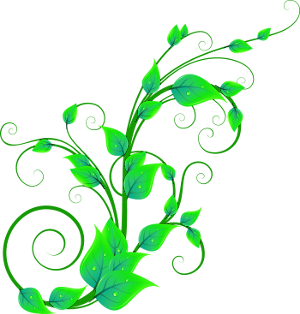
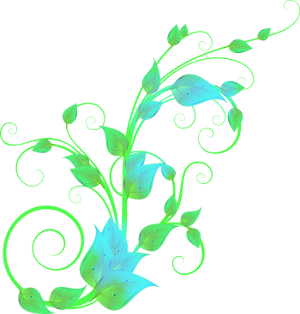
MDR対応

diff --git a/Tools/png2hsv/png2hsv.go b/Tools/png2hsv/png2hsv.go
@@ -85,16 +85,21 @@ func doBatch(files []string) {
 // ファイルをTSPにコンバートする
 func convert(in, out string) {
 
-	r, err := os.Open(in)
+	nrgbaImg, err := loadPNGToNRGBA(in)
 	check(err)
 
-	srcImg, err := png.Decode(r)
-	check(err)
-
-	nrgbaImg := image.NewNRGBA(srcImg.Bounds())
-	draw.Draw(nrgbaImg, srcImg.Bounds(), srcImg, image.Point{0, 0}, draw.Src)
+	ext2 := filepath.Ext(in)
+	filename := in[0:len(in)-len(ext2)] + "_Light" + ext2
+	lightImg, err := loadPNGToNRGBA(filename)
+	if lightImg == nil {
+		// Light画像がない場合は、黒を使う
+		size := nrgbaImg.Bounds().Size()
+		lightImg = image.NewNRGBA(image.Rect(0, 0, size.X, size.Y))
+	}
 
 	img := NRGBImageToHSV(nrgbaImg)
+
+	img = compositeLight(img, lightImg)
 
 	if *optSplit {
 		// チャンネルスプリットする
@@ -120,6 +125,38 @@ func convert(in, out string) {
 	err = png.Encode(w, img)
 	check(err)
 	//}
+
+}
+
+func loadPNGToNRGBA(file string) (*image.NRGBA, error) {
+	r, err := os.Open(file)
+	if err != nil {
+		return nil, err
+	}
+
+	img, err := png.Decode(r)
+	if err != nil {
+		return nil, err
+	}
+
+	nrgbaImg := image.NewNRGBA(img.Bounds())
+	draw.Draw(nrgbaImg, img.Bounds(), img, image.Point{0, 0}, draw.Src)
+
+	return nrgbaImg, nil
+}
+
+func compositeLight(srcImg, lightImg *image.NRGBA) *image.NRGBA {
+	size := srcImg.Bounds().Size()
+	img := image.NewNRGBA(image.Rect(0, 0, size.X, size.Y))
+	for y := 0; y < size.Y; y++ {
+		for x := 0; x < size.X; x++ {
+			var c1 = srcImg.NRGBAAt(x, y)
+			var c2 = lightImg.NRGBAAt(x, y)
+			var c = color.NRGBA{c1.R, c1.G, byte((int(c1.B) + int(c2.B)*int(c2.A)/255) / 2), c1.A}
+			img.SetNRGBA(x, y, c)
+		}
+	}
+	return img
 
 }
 
